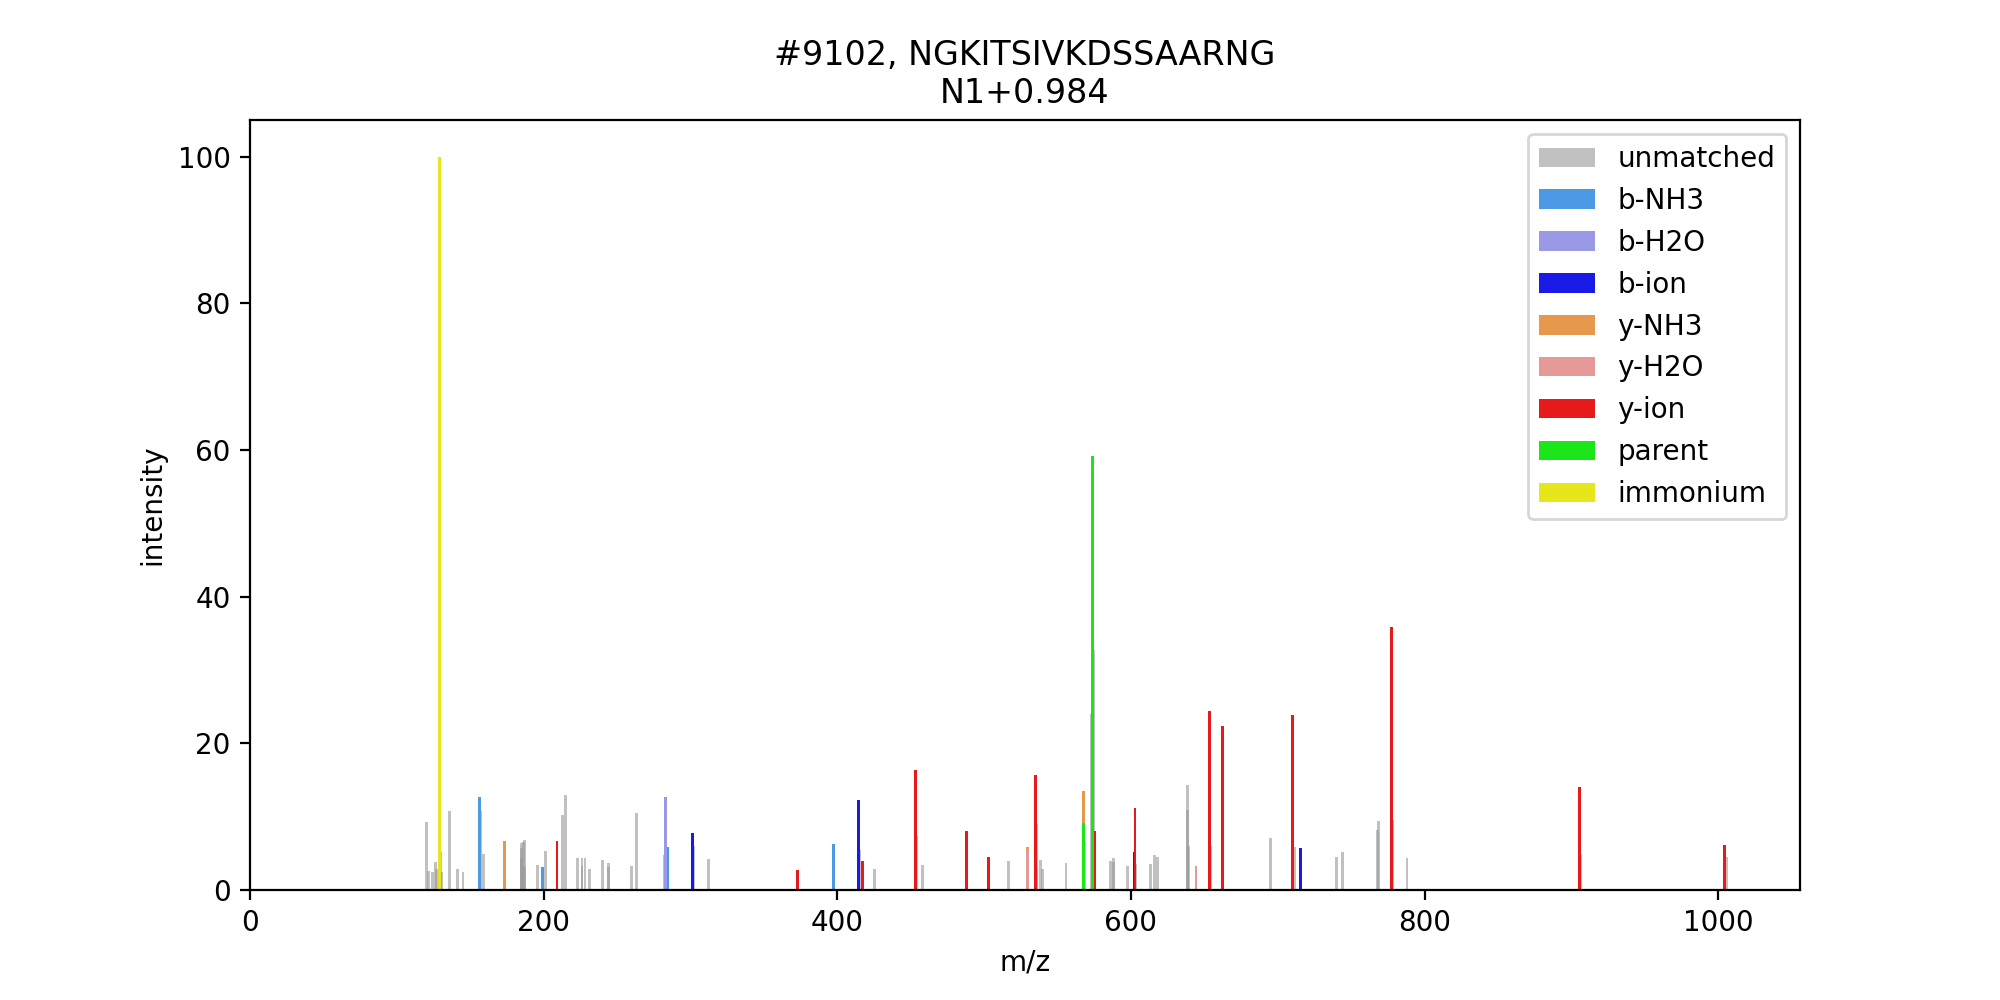
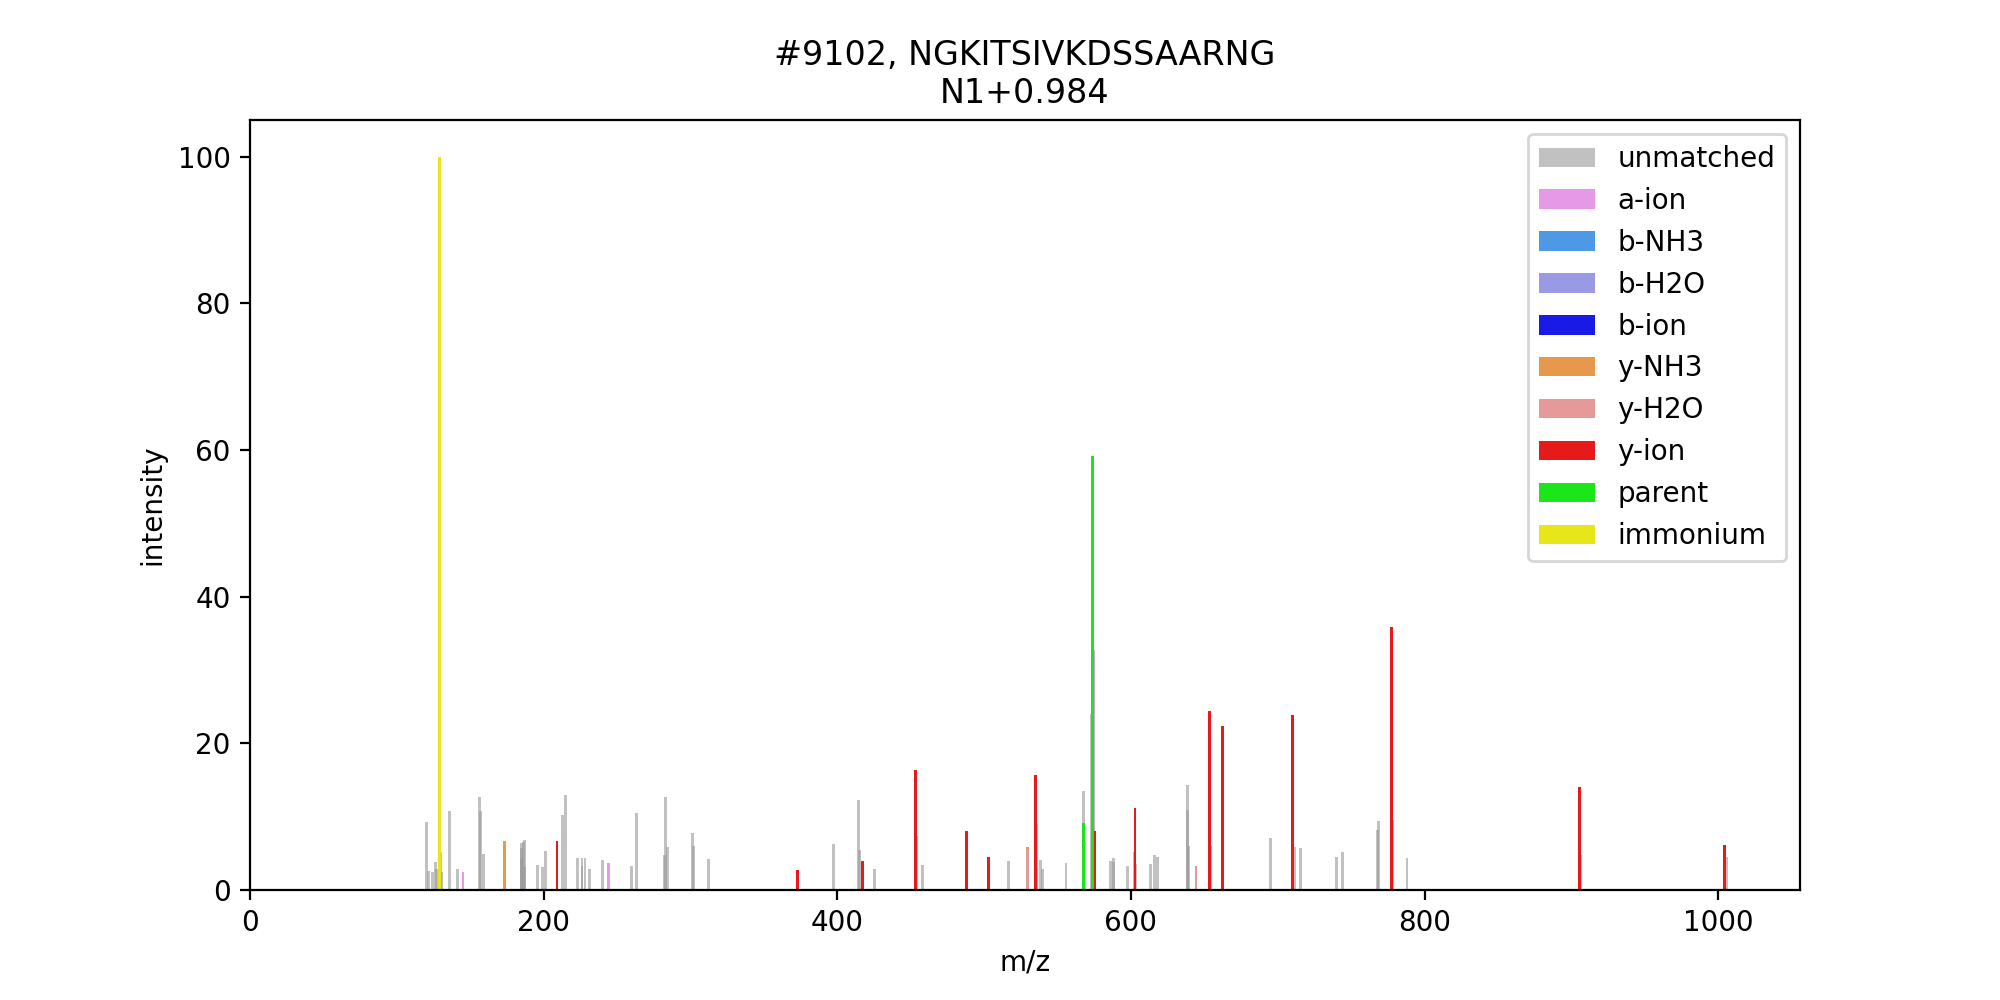
Add files via upload

Changed region(s): [[0.744, 0.186, 0.899, 0.558]]

diff --git a/scan_graph.py b/scan_graph.py
@@ -99,22 +99,22 @@ def GetYs(_pep,_delta = None):
 	for m in ms:
 		cvalue += m
 		rvs.append(cvalue)
-	return rvs
+	return rvs[:-1]
 
 # calculate the neutral masses of parent ions and fragments
 def GetParents(_pep):
 	difs = set([GetDelta('-H2O'),2.0*GetDelta('-H2O')])
 	phospho = isotopes['H'] + 3*isotopes['O'] + isotopes['P']
 	for m in _pep['mods']:
-		if _pep['seq'][m-1] == 'M' and abs(_pep['mods'] - isotopes['O']) < 0.01:
+		if _pep['seq'][m-1] == 'M' and abs(_pep['mods'][m] - isotopes['O']) < 0.01:
 			difs.add(GetDelta('-CH4SO'))
-		elif _pep['seq'][m-1] == 'S' and abs(_pep['mods'] - phospho) < 0.01:
+		elif _pep['seq'][m-1] == 'S' and abs(_pep['mods'][m] - phospho) < 0.01:
 			difs.add(GetDelta('-H3PO4'))
 			difs.append(GetDelta('-H5PO5'))
-		elif _pep['seq'][m-1] == 'T' and abs(_pep['mods'] - phospho) < 0.01:
+		elif _pep['seq'][m-1] == 'T' and abs(_pep['mods'][m] - phospho) < 0.01:
 			difs.add(GetDelta('-H3PO4'))
 			difs.add(GetDelta('-H5PO5'))
-		elif _pep['seq'][m-1] == 'Y' and abs(_pep['mods'] - phospho) < 0.01:
+		elif _pep['seq'][m-1] == 'Y' and abs(_pep['mods'][m] - phospho) < 0.01:
 			difs.add(GetDelta('-H3PO4'))
 			difs.add(GetDelta('-H5PO5'))
 	dY = 2*isotopes['H'] + isotopes['O']
@@ -143,8 +143,11 @@ def GetImmonium(_pep):
 	delta = isotopes['C'] + isotopes['O']
 	rvs = set()
 	# create an array of fragment masses
-	for aa in _pep['seq']:
-		rvs.add(a_to_m[aa]-delta)
+	for i,aa in enumerate(_pep['seq']):
+		if i+1 in _pep['mods']:
+			rvs.add(a_to_m[aa]-delta+_pep['mods'][i+1])
+		else:
+			rvs.add(a_to_m[aa]-delta)
 	return list(rvs)
 
 # calculate the neutral masses of B-type fragments
@@ -165,7 +168,27 @@ def GetBs(_pep,_delta = None):
 	for m in ms:
 		cvalue += m
 		rvs.append(cvalue)
-	return rvs
+	return rvs[:-1]
+
+# calculate the neutral masses of A-type fragments
+def GetAs(_pep,_delta = None):
+	delta = GetDelta(_delta)
+	dA = -1.0*(isotopes['C'] + isotopes['O'])
+	ss = list(_pep['seq'])
+	ms = []
+	# create an array of residue masses
+	for i,aa in enumerate(ss):
+		if i+1 in _pep['mods']:
+			ms.append(a_to_m[aa]+_pep['mods'][i+1])
+		else:
+			ms.append(a_to_m[aa])
+	rvs= []
+	cvalue = dA + delta
+	# create an array of fragment masses
+	for m in ms:
+		cvalue += m
+		rvs.append(cvalue)
+	return rvs[:-1]
 
 # take a set of neutral masses (_vs) and convert them into protonated ions for a given charge _z		
 def GetCharge(_vs,_z):

diff --git a/scan_graph_test.py b/scan_graph_test.py
@@ -8,7 +8,7 @@
 # scan_graph_test.py is a test script to demonstrate the use scan_graph.py to create
 # an annotated graph of an MS/MS spectrum using a known peptide sequence assignment
 #
-from scan_graph import GetSpectrum,GetBs,GetCharge,GetYs,GetValues,GetParents,GetImmonium
+from scan_graph import GetSpectrum,GetAs,GetBs,GetYs,GetCharge,GetValues,GetParents,GetImmonium
 import matplotlib.pyplot as plt
 import matplotlib.style
 import matplotlib as mpl
@@ -34,6 +34,7 @@ def main():
 
 	# specify the ion types (and plot colors) to use
 	itypes = {
+			'a-ion':(0.9,0.6,0.9,1.0),
 			'b-NH3':(0.3,0.6,0.9,1.0),
 			'b-H2O':(0.6,0.6,0.9,1.0),
 			'b-ion':(0.1,0.1,0.9,1.0),
@@ -46,6 +47,8 @@ def main():
 	for it in itypes:
 		if it[0] == 'b':
 			bvals = GetBs(peptide,it[1:])
+		if it[0] == 'a':
+			bvals = GetAs(peptide,it[1:])
 		else:
 			bvals = GetYs(peptide,it[1:])
 		# reset the peak lists
